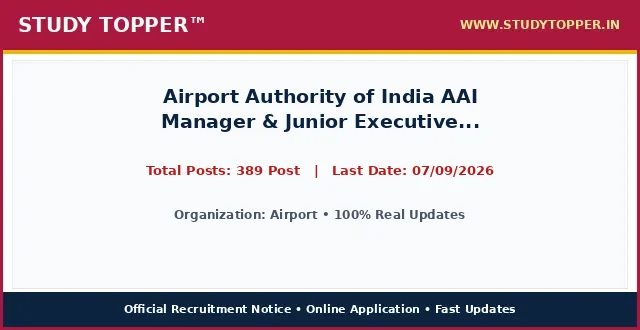
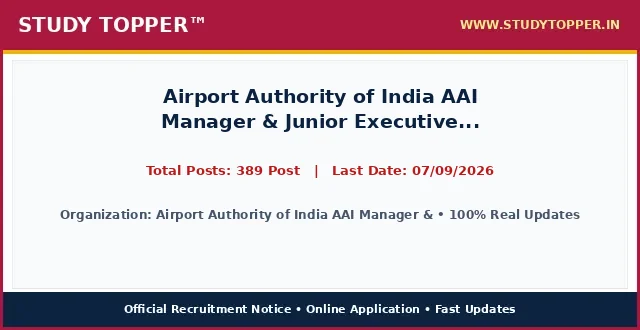
chore(lifecycle): daily auto-sort vacancies and update active dates

Changed region(s): [[0.0938, 0.6364, 0.9062, 0.6667]]

diff --git a/pages/aai-manager-junior-executive-july26.html b/pages/aai-manager-junior-executive-july26.html
@@ -987,12 +987,12 @@ ul.wp-block-latest-posts a:hover {
 <main class="site-main" id="main">
 <div class="gb-container gb-container-b39c368c">
 <h1 class="gb-headline gb-headline-e52a0102 gb-headline-text" style="font-size: 22px; font-weight: 700; color: #0000cd; text-align: left; margin: 8px 0 4px 0; line-height: 1.3; width: 100%; font-family: '-apple-system, BlinkMacSystemFont, 'Segoe UI', Roboto, 'Helvetica Neue', Arial, sans-serif', Times, serif, Hind, sans-serif;">Airport Authority of India AAI Manager & Junior Executive Recruitment 2026 Apply Online for 389 Post</h1>
-<div class="gb-container gb-container-659bd175"><p style="color: #cd0808; font-weight: 700; font-size: 15px; margin: 2px 0 7px 0; text-align: left; font-family: '-apple-system, BlinkMacSystemFont, 'Segoe UI', Roboto, 'Helvetica Neue', Arial, sans-serif', Times, serif, Hind, sans-serif;">Post Date: August 22, 2026 12:43 PM</p></div>
-<p class="gb-headline gb-headline-550ae316 short_Details gb-headline-text" style="width: 100%; max-width: 100%; font-size: 16.8px; line-height: 1.55; color: #000000; text-align: justify; text-justify: inter-word; margin: 8px 0 14px 0; display: block; font-family: '-apple-system, BlinkMacSystemFont, 'Segoe UI', Roboto, 'Helvetica Neue', Arial, sans-serif', Times, serif, Hind, sans-serif;"><strong style="color: #0000cd;">Airport</strong> has officially published the recruitment notice <strong style="color: #cd0808;">Airport Authority of India AAI Manager & Junior Executive Recruitment 2026 Apply Online for 389 Post</strong> under notification number 2026. Online applications are invited for 389 Post across multiple departments and cadre positions. Interested candidates possessing the requisite educational qualifications and falling between 18 Years to 40 Years can complete their online registration before the application deadline of 07/09/2026. Applicants should read the eligibility criteria, category reservation rules, and exam scheme thoroughly before submitting applications.</p>
+<div class="gb-container gb-container-659bd175"><p style="color: #cd0808; font-weight: 700; font-size: 15px; margin: 2px 0 7px 0; text-align: left; font-family: '-apple-system, BlinkMacSystemFont, 'Segoe UI', Roboto, 'Helvetica Neue', Arial, sans-serif', Times, serif, Hind, sans-serif;">Post Date: August 22, 2026 12:52 PM</p></div>
+<p class="gb-headline gb-headline-550ae316 short_Details gb-headline-text" style="width: 100%; max-width: 100%; font-size: 16.8px; line-height: 1.55; color: #000000; text-align: justify; text-justify: inter-word; margin: 8px 0 14px 0; display: block; font-family: '-apple-system, BlinkMacSystemFont, 'Segoe UI', Roboto, 'Helvetica Neue', Arial, sans-serif', Times, serif, Hind, sans-serif;"><strong style="color: #0000cd;">Airport Authority of India AAI Manager & Junior Executive    for 389</strong> has officially published the recruitment notice <strong style="color: #cd0808;">Airport Authority of India AAI Manager & Junior Executive Recruitment 2026 Apply Online for 389 Post</strong> under notification number Official Notification 2026. Online applications are invited for 389 Post across multiple departments and cadre positions. Interested candidates possessing the requisite educational qualifications and falling between 18 Years to 40 Years can complete their online registration before the application deadline of 07/09/2026. Applicants should read the eligibility criteria, category reservation rules, and exam scheme thoroughly before submitting applications.</p>
 <div class="gb-container gb-container-9849916c"><div class="social-buttons-compact" style="display: flex; justify-content: flex-start; align-items: center; gap: 10px; margin: 10px 0 16px 0; width: 100%;"><a class="social-btn-compact wa" href="https://whatsapp.com/channel/0029Va9xyz" rel="noopener" style="background-color: #00d084; color: #ffffff; padding: 10px 18px; border-radius: 4px; text-decoration: none; font-weight: bold; font-size: 15.5px; display: inline-flex; align-items: center; justify-content: center; height: auto;" target="_blank">WhatsApp</a><a class="social-btn-compact tg" href="https://t.me/studytopperofficial" rel="noopener" style="background-color: #0088cc; color: #ffffff; padding: 10px 18px; border-radius: 4px; text-decoration: none; font-weight: bold; font-size: 15.5px; display: inline-flex; align-items: center; justify-content: center; height: auto;" target="_blank">Telegram</a></div></div>
 <div class="gb-container gb-container-f58e6ca1" style="border: 2px solid #5b032f; border-radius: 4px; overflow: hidden; margin: 15px 0 20px 0; background-color: #ffffff; width: 100%; box-sizing: border-box;">
 <h2 class="gb-headline gb-headline-2ca5a791 gb-headline-text" style="font-size: 16px; font-weight: 700; text-align: center; color: #ef0303; line-height: 1.3; padding: 6px 4px; margin: 0; background: #ffffff; font-family: '-apple-system, BlinkMacSystemFont, 'Segoe UI', Roboto, 'Helvetica Neue', Arial, sans-serif', Times, serif, Hind, sans-serif;">Airport Authority of India AAI Manager & Junior Executive Recruitment 2026 Apply Online for 389 Post &ndash; Latest Details &amp; Updates</h2>
-<h3 class="gb-headline gb-headline-7d5f86e8 gb-headline-text" style="font-size: 16px; font-weight: 600; text-align: center; color: #009703; line-height: 1.25; margin: 0; padding: 2px 4px 6px 4px; background: #ffffff; font-family: '-apple-system, BlinkMacSystemFont, 'Segoe UI', Roboto, 'Helvetica Neue', Arial, sans-serif', Times, serif, Hind, sans-serif;">Airport : Details &amp; Summary</h3>
+<h3 class="gb-headline gb-headline-7d5f86e8 gb-headline-text" style="font-size: 16px; font-weight: 600; text-align: center; color: #009703; line-height: 1.25; margin: 0; padding: 2px 4px 6px 4px; background: #ffffff; font-family: '-apple-system, BlinkMacSystemFont, 'Segoe UI', Roboto, 'Helvetica Neue', Arial, sans-serif', Times, serif, Hind, sans-serif;">Airport Authority of India AAI Manager & Junior Executive    for 389 : Details &amp; Summary</h3>
 <p class="gb-headline gb-headline-79adf169 gb-headline-text" style="margin: 0 0 6px 0; font-family: '-apple-system, BlinkMacSystemFont, 'Segoe UI', Roboto, 'Helvetica Neue', Arial, sans-serif', Times, serif, Hind, sans-serif; text-align: center; font-size: 18px; font-weight: 700;"><a href="/" style="color: #0000ff; text-decoration: underline;">StudyTopper.in</a></p>
 
 <style id="st-post-boxes-responsive-css">
@@ -1047,7 +1047,7 @@ ul.wp-block-latest-posts a:hover {
 <div class="st-grid-row" style="display: flex; flex-wrap: wrap; width: 100%; border-top: 2px solid #5b032f; margin: 0; padding: 0; box-sizing: border-box;">
   <!-- Left Col: Age Limits -->
   <div class="st-col-half st-col-border-right" style="box-sizing: border-box; vertical-align: top;">
-    <div style="background-color: #046132; color: #ffffff; padding: 8px 10px; font-size: 17px; font-weight: 700; text-align: center; font-family: '-apple-system, BlinkMacSystemFont, 'Segoe UI', Roboto, 'Helvetica Neue', Arial, sans-serif', Times, serif, Hind, sans-serif;">Airport : Age Limits As On 07/09/2026</div>
+    <div style="background-color: #046132; color: #ffffff; padding: 8px 10px; font-size: 17px; font-weight: 700; text-align: center; font-family: '-apple-system, BlinkMacSystemFont, 'Segoe UI', Roboto, 'Helvetica Neue', Arial, sans-serif', Times, serif, Hind, sans-serif;">Airport Authority of India AAI Manager & Junior Executive    for 389 : Age Limits As On 07/09/2026</div>
     <div style="padding: 12px 14px; background-color: #ffffff;">
       <ul style="padding-left: 20px; margin: 0; list-style-type: disc; text-align: left; font-size: 14pt; line-height: 1.6; font-family: '-apple-system, BlinkMacSystemFont, 'Segoe UI', Roboto, 'Helvetica Neue', Arial, sans-serif', Times, serif, Hind, sans-serif;">
         <li><span style="font-size: 14pt;">Minimum Age : <strong>NA</strong></span></li><li><span style="font-size: 14pt;">Maximum Age : <strong>: 32 Years for Manager Post</strong></span></li><li><span style="font-size: 14pt;">Age Relaxation : <strong>Age Relaxation Extra as per AAI Manager, Junior Executive Examination 2026 Rules.</strong></span></li>
@@ -1149,7 +1149,7 @@ ul.wp-block-latest-posts a:hover {
 <table style="border-collapse: collapse; width: 100%;">
 <tbody>
 <tr>
-<td style="width: 100%; text-align: center;"><span style="background-color: #000080; color: #ffffff; font-size: 14pt; font-weight: bold; display: block; padding: 6px;"> How to Fill Airport Online Application Form </span></td>
+<td style="width: 100%; text-align: center;"><span style="background-color: #000080; color: #ffffff; font-size: 14pt; font-weight: bold; display: block; padding: 6px;"> How to Fill Airport Authority of India AAI Manager & Junior Executive    for 389 Online Application Form </span></td>
 </tr>
 <tr>
 <td style="width: 100%;"><ol style="margin:0; padding-left:18px; text-align: left !important; list-style-position: outside !important"><li style="margin-bottom:6px; text-align: left !important;">Airports Authority of India (AAI) Are Issued Manager, Junior Executive Examination 2026. Notification and Invited Online Application Form for the AAI Manager, Junior Executive Recruitment 2026 Candidate Can Apply Online for</li><li style="margin-bottom:6px; text-align: left !important;">08/08/2026 to 07/09/2026.</li><li style="margin-bottom:6px; text-align: left !important;">Kindly Check and Collect the All Document – Hand Writing, Eligibility, ID Proof, Address Details, Basic Details.</li><li style="margin-bottom:6px; text-align: left !important;">Kindly Ready Scan Document Related to Recruitment Form – Photo, Sign, ID, Thumb, Proof, Etc.</li><li style="margin-bottom:6px; text-align: left !important;">Before Submit the Application Form Must Check the Preview and All Column Carefully.</li><li style="margin-bottom:6px; text-align: left !important;">If Candidate Required to Paying the Application Fee Must Submit. If You have Not the Required Application Fees Your Form is Not Completed.</li><li style="margin-bottom:6px; text-align: left !important;">Take A Print Out of Final Submitted Form.</li><li style="margin-bottom:6px; text-align: left !important;">Resize candidate photograph and signature accurately using the <a href="https://indtool.in" rel="noopener" target="_blank"><strong>StudyTopper Tools</strong></a> image resizer at indtool.in.</li></ol></td>
@@ -1160,7 +1160,7 @@ ul.wp-block-latest-posts a:hover {
 <table style="border-collapse: collapse; width: 100%;">
 <tbody>
 <tr>
-<td style="width: 100%; text-align: center;"><span style="background-color: #000080; color: #ffffff; font-size: 14pt;"><strong><span style="color: #ffffff;"> Airport Recruitment 2026 : Mode Of Selection </span></strong></span></td>
+<td style="width: 100%; text-align: center;"><span style="background-color: #000080; color: #ffffff; font-size: 14pt;"><strong><span style="color: #ffffff;"> Airport Authority of India AAI Manager & Junior Executive    for 389 Recruitment 2026 : Mode Of Selection </span></strong></span></td>
 </tr>
 <tr>
 <td style="width: 100%;">
